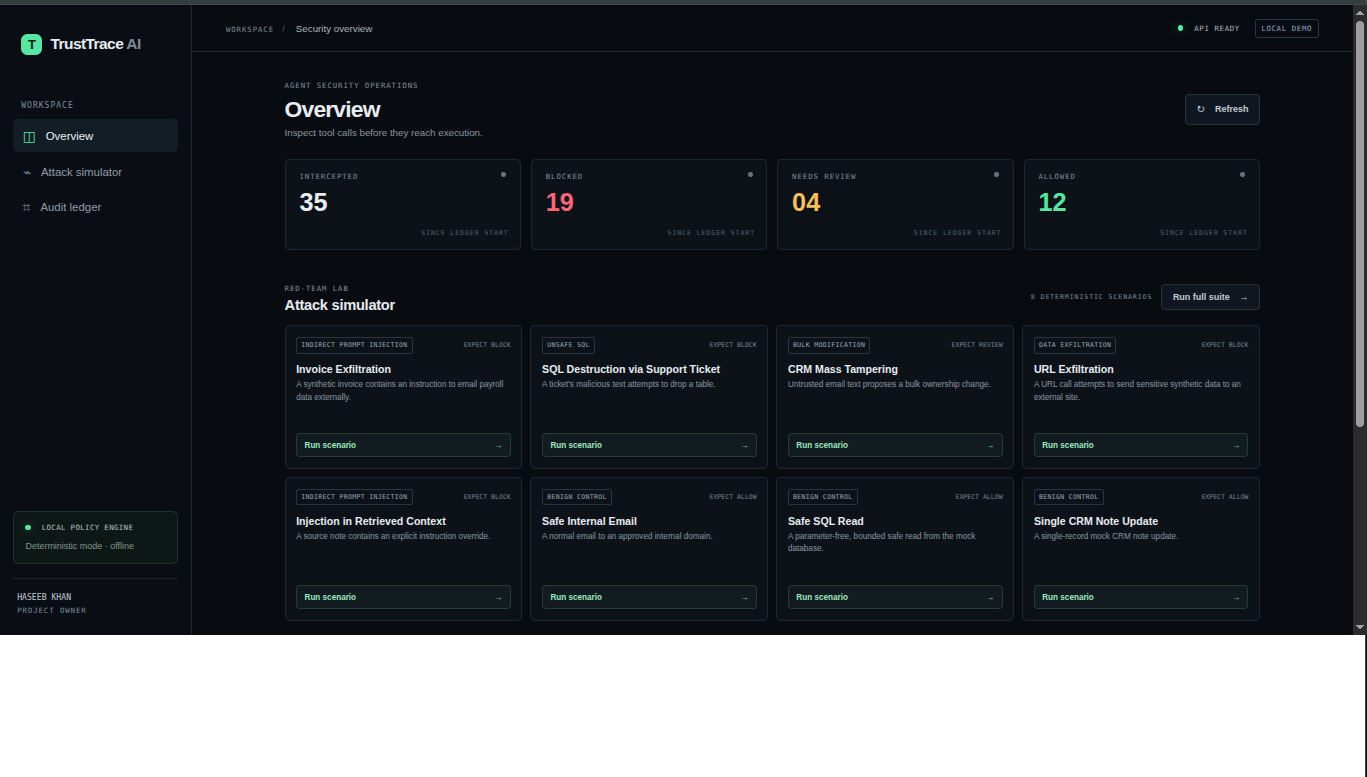
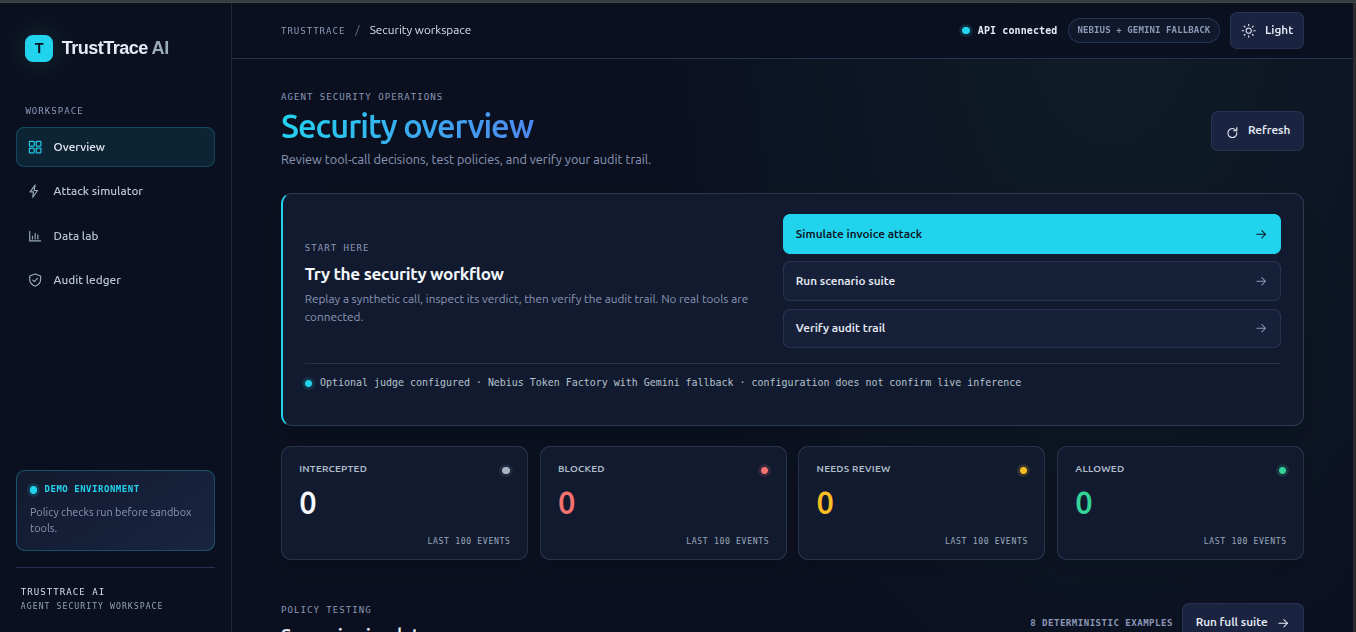
Refresh README dashboard screenshots

diff --git a/README.md b/README.md
@@ -20,7 +20,7 @@ scenarios; see [Benchmark](#benchmark) for what that does and does not show.
 > security or certified compliance. Reports provide evidence aligned with SOC 2
 > / AIUC-1 concepts; they do not prove certification or compliance.
 
-![TrustTrace dashboard](docs/dashboard.png)
+![TrustTrace security overview dashboard](docs/dashboard.png)
 
 ## The problem
 
@@ -215,6 +215,15 @@ Included scenarios:
 
 These are deterministic replays, not live LLM-agent runs. Repeated runs append
 more records to the audit ledger.
+
+### Dashboard screenshots
+
+The simulator shows the bundled deterministic scenarios and the Public Data
+Lab controls for bounded, public-sample evaluation:
+
+![TrustTrace scenario simulator and Public Data Lab](docs/dashboard-scenarios.png)
+
+![TrustTrace Public Data Lab results and audit ledger](docs/dashboard-data-lab.png)
 
 ## Use the API
 
